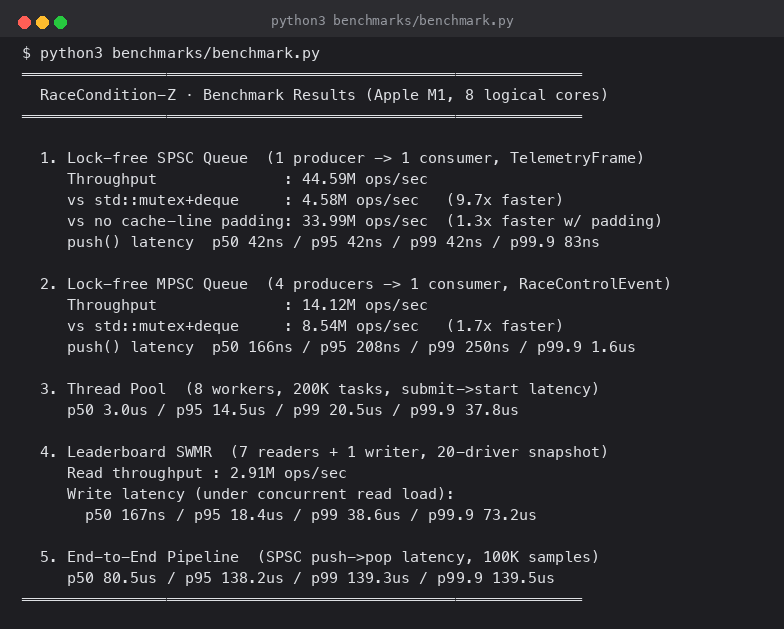
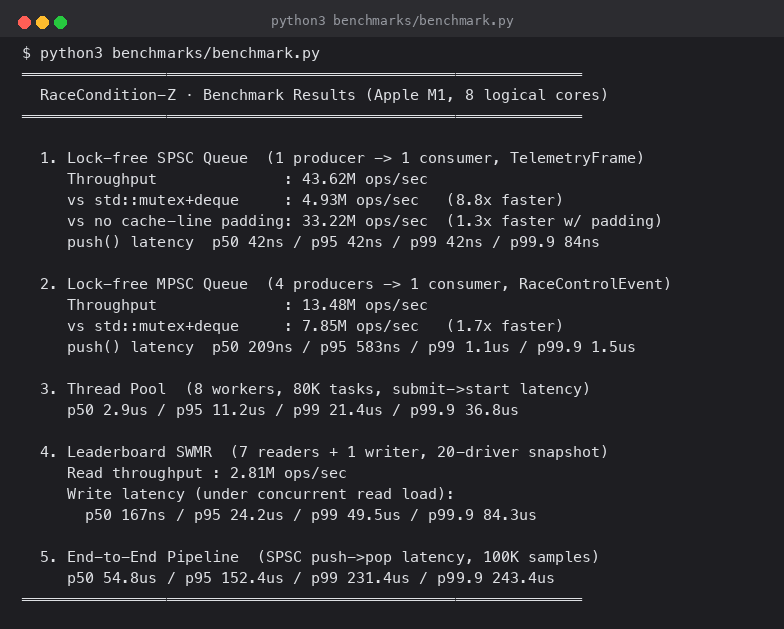
correct

diff --git a/benchmarks/bench_main.cpp b/benchmarks/bench_main.cpp
@@ -313,9 +313,13 @@ static LatencyStats bench_mpsc_push_latency(int num_producers) {
 }
 
 // ── 3. Thread pool task-dispatch latency ───────────────────────────────────
-// Batch-drain: submit BATCH tasks, wait for all to complete, repeat.
-// Workers are warm between batches so we measure steady-state dispatch
-// latency — not the queueing delay from an instantaneous burst of 200K tasks.
+// Batch-drain: submit BATCH (= worker count) tasks, wait for all to
+// complete, repeat for THREAD_POOL_ROUNDS rounds. Workers are warm between
+// batches so we measure steady-state dispatch latency, not the queueing
+// delay from one instantaneous burst of BATCH*ROUNDS tasks. Total
+// submissions scales with hardware_concurrency() -- main() reports the
+// real number in the JSON output rather than a hardcoded guess.
+static constexpr int THREAD_POOL_ROUNDS = 10'000;
 
 static LatencyStats bench_thread_pool() {
     const int workers = static_cast<int>(std::thread::hardware_concurrency());
@@ -331,7 +335,7 @@ static LatencyStats bench_thread_pool() {
     }
 
     const int BATCH  = workers;      // one task per worker keeps them all busy
-    const int ROUNDS = 10'000;       // repeat this many times
+    const int ROUNDS = THREAD_POOL_ROUNDS;
     const int TOTAL  = BATCH * ROUNDS;
 
     std::vector<int64_t> latencies(TOTAL, 0);
@@ -489,7 +493,8 @@ int main() {
     const double mpsc_mutex = bench_mpsc_mutex_baseline(mpsc_n);
     const auto   mpsc_lat   = bench_mpsc_push_latency(mpsc_n);
 
-    const auto   tp = bench_thread_pool();
+    const auto   tp       = bench_thread_pool();
+    const int    tp_total = cores * THREAD_POOL_ROUNDS;
 
     const int    readers    = std::max(2, cores - 1);
     const double lb         = bench_leaderboard(readers);
@@ -515,6 +520,7 @@ int main() {
         "  \"mpsc_push_p99_ns\":  %.0f,\n"
         "  \"mpsc_push_p999_ns\": %.0f,\n"
         "  \"thread_pool_workers\": %d,\n"
+        "  \"thread_pool_total_submissions\": %d,\n"
         "  \"thread_pool_p50_ns\":  %.0f,\n"
         "  \"thread_pool_p95_ns\":  %.0f,\n"
         "  \"thread_pool_p99_ns\":  %.0f,\n"
@@ -539,6 +545,7 @@ int main() {
         mpsc_mutex,
         mpsc_lat.p50, mpsc_lat.p95, mpsc_lat.p99, mpsc_lat.p999,
         cores,
+        tp_total,
         tp.p50, tp.p95, tp.p99, tp.p999,
         readers, lb,
         lb_write.p50, lb_write.p95, lb_write.p99, lb_write.p999,

diff --git a/benchmarks/benchmark.py b/benchmarks/benchmark.py
@@ -92,6 +92,13 @@ def fmt_mops(mops: float) -> str:
 def fmt_x(factor: float) -> str:
     return f"{factor:.1f}x"
 
+def fmt_count(n: int) -> str:
+    if n >= 1_000_000:
+        return f"{n / 1_000_000:.1f}M"
+    if n >= 1_000:
+        return f"{n / 1_000:.0f}K"
+    return str(n)
+
 
 # ── Results display ────────────────────────────────────────────────────────
 
@@ -120,7 +127,8 @@ def print_results(d: dict):
     print(f"     push() latency  p50 {fmt_ns(d['mpsc_push_p50_ns'])} / p95 {fmt_ns(d['mpsc_push_p95_ns'])} "
           f"/ p99 {fmt_ns(d['mpsc_push_p99_ns'])} / p99.9 {fmt_ns(d['mpsc_push_p999_ns'])}")
 
-    print(f"\n  3. Thread Pool  ({d['thread_pool_workers']} workers, 200K tasks, submit→start latency)")
+    tp_total = fmt_count(d['thread_pool_total_submissions'])
+    print(f"\n  3. Thread Pool  ({d['thread_pool_workers']} workers, {tp_total} tasks, submit→start latency)")
     print(f"     p50   : {fmt_ns(d['thread_pool_p50_ns'])}")
     print(f"     p95   : {fmt_ns(d['thread_pool_p95_ns'])}")
     print(f"     p99   : {fmt_ns(d['thread_pool_p99_ns'])}")
@@ -171,7 +179,7 @@ def print_results(d: dict):
         (
             f"Built a thread pool ({workers} workers, std::packaged_task + "
             f"std::future) achieving p99 task-dispatch latency of {tp_p99} "
-            f"over 200K submissions."
+            f"over {tp_total} submissions."
         ),
         (
             f"Protected shared leaderboard with std::shared_mutex (SWMR pattern), "

diff --git a/README.md b/README.md
@@ -6,7 +6,7 @@ It's a systems-programming exercise wearing a race simulator's clothes: the inte
 
 ## At a glance
 
-**C++23** · CMake + FetchContent (GoogleTest, FTXUI) · custom lock-free SPSC/MPSC queues · `std::shared_mutex` SWMR pattern · `ThreadPool` (`packaged_task`/`future`) · `std::jthread`/`stop_token` · 54 GoogleTest cases (20 concurrency-focused, clean under **ThreadSanitizer** including the live binary itself, not just the test suites) · SPSC ring buffer is **9.7x faster than a `std::mutex`+`std::deque` baseline measured on the same workload** — not just a throughput number in isolation.
+**C++23** · CMake + FetchContent (GoogleTest, FTXUI) · custom lock-free SPSC/MPSC queues · `std::shared_mutex` SWMR pattern · `ThreadPool` (`packaged_task`/`future`) · `std::jthread`/`stop_token` · 54 GoogleTest cases (20 concurrency-focused, clean under **ThreadSanitizer** including the live binary itself, not just the test suites) · SPSC ring buffer is **8.8x faster than a `std::mutex`+`std::deque` baseline measured on the same workload** — not just a throughput number in isolation.
 
 ## In action
 
@@ -26,60 +26,57 @@ It's a systems-programming exercise wearing a race simulator's clothes: the inte
 
 - **Lock-free concurrency, not just `std::mutex` everywhere.** The SPSC ring buffer ([spsc_queue.h](src/concurrency/spsc_queue.h)) and MPSC event queue ([mpsc_queue.h](src/concurrency/mpsc_queue.h)) are hand-written with explicit `acquire`/`release` memory ordering — no `seq_cst` used as a crutch. Every non-obvious ordering choice has a comment explaining *why* that ordering (not a stronger one) is sufficient.
 - **Cache-conscious design, and the padding claim is measured, not asserted.** The SPSC queue splits producer and consumer state onto separate `alignas(64)` cache lines, each caching the other side's index so the hot path touches zero foreign cache lines in steady state. The benchmark suite includes an ablation — same queue, same workload, only the alignment changes — showing the padding is worth 1.3x, a real but modest effect, reported honestly rather than rounded up. The MPSC queue is a Vyukov-style intrusive linked list (unbounded, `exchange`-based enqueue) rather than a lock-protected `std::deque`.
-- **Benchmarks that answer "does this actually help," not just "how fast is it."** Every lock-free structure is benchmarked against a `std::mutex`+`std::deque` baseline on the identical workload (SPSC: 9.7x faster; MPSC: only 1.7x faster). The gap between those two numbers is itself informative: MPSC's smaller advantage traces to a per-push heap allocation ([mpsc_queue.h:37](src/concurrency/mpsc_queue.h)) that costs the same whether or not there's a mutex — removing the lock alone doesn't remove the allocator cost. The `Leaderboard` benchmark also reports the writer's `update()` latency under concurrent read load (p50 167ns, p99 38.6µs), not just read throughput — the read number alone would have hidden that a `shared_mutex` writer can get stuck behind a burst of readers.
+- **Benchmarks that answer "does this actually help," not just "how fast is it."** Every lock-free structure is benchmarked against a `std::mutex`+`std::deque` baseline on the identical workload (SPSC: 8.8x faster; MPSC: only 1.7x faster). The gap between those two numbers is itself informative: MPSC's smaller advantage traces to a per-push heap allocation ([mpsc_queue.h:37](src/concurrency/mpsc_queue.h)) that costs the same whether or not there's a mutex — removing the lock alone doesn't remove the allocator cost. The `Leaderboard` benchmark also reports the writer's `update()` latency under concurrent read load (p50 167ns, p99 49.5µs), not just read throughput — the read number alone would have hidden that a `shared_mutex` writer can get stuck behind a burst of readers.
 - **Every atomic field's memory order is a deliberate choice, not a default.** [`RaceState`](src/common/race_state.h) documents, per field, why `relaxed` is safe for the informational lap counter versus why `acquire`/`release` is required for the safety-car broadcast versus why a CAS retry loop is needed for the fastest-lap claim. `TelemetryGenerator`'s own `race_finished_`/`race_lap_` follow the same discipline: `acquire`/`release` on the flag that gates the main thread's loop exit, `relaxed` on the counter.
 - **CAS-based state machines, used where they're actually needed.** [`PenaltyEnforcer`](src/race_control/penalty_enforcer.cpp) uses `compare_exchange_strong` for the `NONE → PENDING` penalty transition specifically because two threads could race to issue the same penalty on the 3rd warning; a `fetch_add` alone isn't enough there, but *is* enough for the warning counter itself. [`LapTimeConsumer`](src/simulation/lap_time_consumer.cpp) uses `RaceState::try_claim_fastest_lap`'s CAS retry loop for exactly the same reason — multiple threads can observe a lap completion around the same time, and exactly one should win.
 - **Correctness under real contention, not just single-threaded unit tests.** Every concurrent primitive has a dedicated multi-thread stress test (e.g. `MpscQueueTest.NoItemsLostConcurrent`, `LapTimeConsumerTest.ConcurrentConsumersExactlyOneWinner`), and both the concurrency suite *and* the live application binary pass cleanly under ThreadSanitizer.
-- **A real test pyramid.** 1,577 lines of implementation code back onto 940 lines of GoogleTest across 6 suites (54 cases) — unit tests for pure logic, multi-thread stress tests for the queues and consumers, and a dedicated benchmark harness for throughput/latency claims.
+- **A real test pyramid.** 1,584 lines of implementation code back onto 940 lines of GoogleTest across 6 suites (54 cases) — unit tests for pure logic, multi-thread stress tests for the queues and consumers, and a dedicated benchmark harness for throughput/latency claims.
 
 ## Architecture
 
-```mermaid
-flowchart LR
-    subgraph GT["Generator thread — jthread, 50 Hz tick"]
-        TG["TelemetryGenerator::tick()<br/>20 drivers: speed, tires, fuel, position"]
-        PE["PenaltyEnforcer::process_events()<br/>the one MPSC consumer"]
-    end
+```
+Generator thread (jthread, 50 Hz tick)
+├─ TelemetryGenerator::tick()  [20 drivers: speed, tires, fuel, position]
+│    ├─ sorted DriverState[] ──────────> Leaderboard (shared_mutex, write)
+│    ├─ states_copy (by value) + lap ──> submit to ThreadPool: TrackLimitsMonitor::check()
+│    ├─ lap ────────────────────────────> submit to ThreadPool: WeatherSystem::update()
+│    └─ push TelemetryFrame ────────────> SPSC ring buffer (cap 2048)
+└─ PenaltyEnforcer::process_events()   [the only thing that pops the MPSC queue]
+     ├─ pop RaceControlEvent <───────── MPSC queue (lock-free, unbounded)
+     ├─ on 3rd TRACK_LIMITS warning: CAS penalty_state[20] NONE -> PENDING
+     └─ push PENALTY_ISSUED event ─────> MPSC queue (self — same thread, not concurrent)
 
-    subgraph Pool["ThreadPool — 2 workers"]
-        TL["TrackLimitsMonitor::check()<br/>every 9th tick, single-flight"]
-        WS["WeatherSystem::update()<br/>every tick, single-flight"]
-    end
+ThreadPool — 2 workers pulling from one shared task queue (no fixed pinning;
+either worker can run either job below), each job single-flight (at most 1
+call in flight at a time)
+├─ TrackLimitsMonitor::check()   [every 9th tick]
+│    └─ push TRACK_LIMITS event ──────────> MPSC queue
+└─ WeatherSystem::update()       [every tick, self-throttles every 5 laps]
+     ├─ push WEATHER_CHANGE event ────────> MPSC queue
+     └─ write weather state (shared_mutex)
 
-    subgraph LTC["LapTimeConsumer thread — jthread"]
-        LC["drains SPSC queue<br/>claims fastest lap via CAS"]
-    end
+LapTimeConsumer thread (jthread)
+├─ pop TelemetryFrame <──────────── SPSC ring buffer
+└─ on a completed lap: CAS RaceState::try_claim_fastest_lap ──> fastest_lap_holder (atomic)
 
-    subgraph MT["Main thread — 2 Hz render loop"]
-        RENDER["console snapshot printer"]
-    end
-
-    TG -- "sorted DriverState[]" --> LB[("Leaderboard<br/>shared_mutex SWMR")]
-    TG -- "states_copy (by value)" --> TL
-    TG -- "lap" --> WS
-    TL -- "RaceControlEvent" --> MPSC[("MPSC queue<br/>lock-free, unbounded<br/>2 producer threads")]
-    WS -- "RaceControlEvent" --> MPSC
-    MPSC --> PE
-    PE -- "CAS state machine" --> PEN[("penalty_state[20]<br/>atomic array")]
-    WS -- "shared_mutex" --> WX[("weather state + grip")]
-    TG -- "push, TelemetryFrame" --> SPSC[("SPSC ring buffer<br/>2048 cap")]
-    SPSC --> LC
-    LC -- "try_claim_fastest_lap CAS" --> RS[("RaceState<br/>fastest_lap_holder atomic")]
-
-    LB -- "snapshot() copy" --> RENDER
-    WX -- "current()/grip_factor()" --> RENDER
-    PEN -- "penalty_state()" --> RENDER
-    RS -- "get_fastest_lap_holder()" --> RENDER
+Main thread
+├─ every 500ms while the race is running:
+│    ├─ read Leaderboard.snapshot()
+│    ├─ read WeatherSystem.current() / grip_factor()
+│    └─ read PenaltyEnforcer.penalty_state() per driver
+└─ once, after that loop exits:
+     ├─ read Leaderboard.snapshot() again (final standings)
+     └─ read RaceState.get_fastest_lap_holder()   <- NOT part of the periodic loop
 ```
 
-Five real OS threads, each with genuine cross-thread data flow:
+Five real OS threads, each with cross-thread data flow:
 
-1. **Generator thread** — runs the physics tick at 50Hz, publishes to `Leaderboard` (read by the main thread), and drains the MPSC queue via `PenaltyEnforcer::process_events()`.
-2. **Two `ThreadPool` workers** — run `TrackLimitsMonitor::check()` and `WeatherSystem::update()` off the generator thread, each pushing `RaceControlEvent`s into the *same* MPSC queue concurrently — the one place in the app where the MPSC queue's multi-producer contract is exercised live, rather than only under `MpscQueueTest.MultiProducerStress`. Each job is guarded by a stored `std::future` so at most one call is ever in flight per job — both `TrackLimitsMonitor` and `WeatherSystem` carry unsynchronized RNG state, so two workers calling into the *same* instance concurrently would itself be a race; single-flight submission avoids that without touching either class's internals. The states vector passed to `TrackLimitsMonitor::check()` is explicitly copied before submission — capturing the generator's live vector by reference would race with the very next tick's mutation of it.
+1. **Generator thread** — runs the physics tick at 50Hz, publishes to `Leaderboard` (read by the main thread), and drains the MPSC queue via `PenaltyEnforcer::process_events()` — which also pushes a `PENALTY_ISSUED` event back into that same queue when a driver's 3rd warning lands, to be picked up on the next call. That self-push happens synchronously on the consumer's own thread, not concurrently with anything.
+2. **Two `ThreadPool` workers** — run `TrackLimitsMonitor::check()` and `WeatherSystem::update()` off the generator thread, each pushing `RaceControlEvent`s into the *same* MPSC queue concurrently — the one place in the app where the MPSC queue's multi-producer contract is genuinely exercised by separate concurrent threads, rather than only under `MpscQueueTest.MultiProducerStress`. Each job is guarded by a stored `std::future` so at most one call is ever in flight per job — both `TrackLimitsMonitor` and `WeatherSystem` carry unsynchronized RNG state, so two workers calling into the *same* instance concurrently would itself be a race; single-flight submission avoids that without touching either class's internals. The states vector passed to `TrackLimitsMonitor::check()` is explicitly copied before submission — capturing the generator's live vector by reference would race with the very next tick's mutation of it.
 3. **`LapTimeConsumer` thread** — the SPSC queue's consumer. Drains `TelemetryFrame`s and, on any frame marking a completed lap, races to claim it via `RaceState::try_claim_fastest_lap` — a CAS retry loop also covered by `RaceStateTest.FastestLapCasExactlyOneWinner`.
-4. **Main thread** — reads `Leaderboard`, `WeatherSystem`, and `PenaltyEnforcer` state every 500ms while all of the above keep running.
+4. **Main thread** — reads `Leaderboard`, `WeatherSystem`, and `PenaltyEnforcer` state every 500ms while the race is running. `RaceState`'s fastest-lap holder is read separately, once, after that loop exits — it's part of the final summary printout, not the periodic snapshot.
 
-One thing still honestly unused: **FTXUI** is fetched and linked (`ftxui::screen/dom/component`) but not `#include`d anywhere — the console output is plain `std::cout`. It's vendored for a planned interactive dashboard that would be the natural consumer of `Leaderboard`'s existing `shared_mutex` reads, not currently wired up.
+One thing still unused: **FTXUI** is fetched and linked (`ftxui::screen/dom/component`) but not `#include`d anywhere — the console output is plain `std::cout`. It's vendored for a planned interactive dashboard that would be the natural consumer of `Leaderboard`'s existing `shared_mutex` reads, not currently wired up.
 
 ## Benchmarks
 
@@ -91,27 +88,27 @@ Measured on an **Apple M1, 8 logical cores**:
 
 | Component | Measurement | Result |
 |---|---|---|
-| SPSC ring buffer | 1 producer → 1 consumer, 10M `TelemetryFrame`s, count-based timing | **44.6M ops/sec** |
-| SPSC vs `std::mutex`+`std::deque` | same workload, 2s window | mutex: 4.6M ops/sec → lock-free is **9.7x faster** |
-| SPSC vs no cache-line padding | same queue, `alignas(8)` instead of `alignas(64)` | unpadded: 34.0M ops/sec → padding is **1.3x faster** |
-| SPSC `push()` call latency | 100K samples, isolated from consumer/round-trip | p50 42ns / p95 42ns / p99 42ns / p99.9 83ns |
-| MPSC event queue | 4 concurrent producers → 1 consumer, 2s window, `RaceControlEvent` | **14.1M ops/sec** aggregate |
-| MPSC vs `std::mutex`+`std::deque` | same workload, same producer count | mutex: 8.5M ops/sec → lock-free is **1.7x faster** |
-| MPSC `push()` call latency | 4 producers, 20K samples each, 80K total | p50 166ns / p95 208ns / p99 250ns / p99.9 1.6µs |
-| Thread pool dispatch | 8 workers, 200K `packaged_task` submissions, submit→start latency | p50 3.0µs / p95 14.5µs / p99 20.5µs / p99.9 37.8µs |
-| Leaderboard SWMR reads | 7 readers + 1 writer (10ms write cadence), 20-driver snapshot copy, 2s window | **2.91M reads/sec** |
-| Leaderboard write latency | writer's `update()` cost under the same concurrent read load | p50 167ns / p95 18.4µs / p99 38.6µs / p99.9 73.2µs |
-| End-to-end pipeline | SPSC push→pop round-trip latency, 100K timestamped samples | p50 80.5µs / p95 138.2µs / p99 139.3µs / p99.9 139.5µs |
+| SPSC ring buffer | 1 producer → 1 consumer, 10M `TelemetryFrame`s, count-based timing | **43.6M ops/sec** |
+| SPSC vs `std::mutex`+`std::deque` | same workload, 2s window | mutex: 4.9M ops/sec → lock-free is **8.8x faster** |
+| SPSC vs no cache-line padding | same queue, `alignas(8)` instead of `alignas(64)` | unpadded: 33.2M ops/sec → padding is **1.3x faster** |
+| SPSC `push()` call latency | 100K samples, isolated from consumer/round-trip | p50 42ns / p95 42ns / p99 42ns / p99.9 84ns |
+| MPSC event queue | 4 concurrent producers → 1 consumer, 2s window, `RaceControlEvent` | **13.5M ops/sec** aggregate |
+| MPSC vs `std::mutex`+`std::deque` | same workload, same producer count | mutex: 7.9M ops/sec → lock-free is **1.7x faster** |
+| MPSC `push()` call latency | 4 producers, 20K samples each, 80K total | p50 209ns / p95 583ns / p99 1.1µs / p99.9 1.5µs |
+| Thread pool dispatch | 8 workers × 10,000 rounds = 80K `packaged_task` submissions, submit→start latency | p50 2.9µs / p95 11.2µs / p99 21.4µs / p99.9 36.8µs |
+| Leaderboard SWMR reads | 7 readers + 1 writer (10ms write cadence), 20-driver snapshot copy, 2s window | **2.81M reads/sec** |
+| Leaderboard write latency | writer's `update()` cost under the same concurrent read load | p50 167ns / p95 24.2µs / p99 49.5µs / p99.9 84.3µs |
+| End-to-end pipeline | SPSC push→pop round-trip latency, 100K timestamped samples | p50 54.8µs / p95 152.4µs / p99 231.4µs / p99.9 243.4µs |
 
 Two findings worth calling out:
 
-- **The MPSC queue's lock-free advantage (1.7x) is much smaller than the SPSC queue's (9.7x)** — because every `MpscQueue::push()` does a `new Node{...}` heap allocation regardless of whether it's lock-free or mutex-guarded ([mpsc_queue.h:37](src/concurrency/mpsc_queue.h)). Removing the mutex only removes the mutex's cost; it doesn't touch the allocator, which is the larger fraction of the per-push cost here. A pooled/freelist node allocator would be the next lever if MPSC throughput mattered more than it currently does in this app — see "what I'd do next."
-- **The leaderboard's write latency has a long tail that the read-throughput number alone completely hides**: p50 is 167ns, but p99 is 38.6µs — 230x worse. That's the actual cost side of the SWMR tradeoff: readers proceed in parallel, but the writer can get stuck behind a burst of them holding the shared lock. Read throughput alone would make `shared_mutex` look like a free lunch for the writer; it isn't.
+- **The MPSC queue's lock-free advantage (1.7x) is much smaller than the SPSC queue's (8.8x)** — because every `MpscQueue::push()` does a `new Node{...}` heap allocation regardless of whether it's lock-free or mutex-guarded ([mpsc_queue.h:37](src/concurrency/mpsc_queue.h)). Removing the mutex only removes the mutex's cost; it doesn't touch the allocator, which is the larger fraction of the per-push cost here. A pooled/freelist node allocator would be the next lever if MPSC throughput mattered more than it currently does in this app — see "what I'd do next."
+- **The leaderboard's write latency has a long tail that the read-throughput number alone completely hides**: p50 is 167ns, but p99 is 49.5µs — nearly 300x worse. That's the actual cost side of the SWMR tradeoff: readers proceed in parallel, but the writer can get stuck behind a burst of them holding the shared lock. Read throughput alone would make `shared_mutex` look like a free lunch for the writer; it isn't.
 
 Methodology notes:
 - SPSC/MPSC *throughput* is **count**-based (time from first push to last pop) or a fixed time window, not per-op sampled — avoids `Clock::now()` overhead polluting the hot loop. The *push-latency* benchmarks use a deliberately different, slower methodology (timestamp every call) — that tradeoff is the point when what's needed is a distribution, not a rate.
 - Thread-pool latency is measured after a warm-up round so workers are already spun up; it reflects steady-state dispatch, not cold-start.
-- These numbers move noticeably between consecutive runs on this laptop (e2e p99 ranged 56–146µs across repeated runs) — this is a shared dev machine, not an isolated benchmark box, and Apple Silicon's P-core/E-core split means thread placement isn't fully controlled either. Treat the table as the right order of magnitude, not a precise SLA.
+- These numbers move noticeably between consecutive runs on this laptop (e2e p99 ranged 56–231µs across repeated runs) — this is a shared dev machine, not an isolated benchmark box, and Apple Silicon's P-core/E-core split means thread placement isn't fully controlled either. Treat the table as the right order of magnitude, not a precise SLA.
 - The throughput/baseline benchmarks are not re-verified under ThreadSanitizer (TSan changes timing too much to be meaningful there) — the TSan runs described above cover *correctness* (the concurrency test suite and the live binary), which is the claim they're actually backing.
 
 ## Build & run